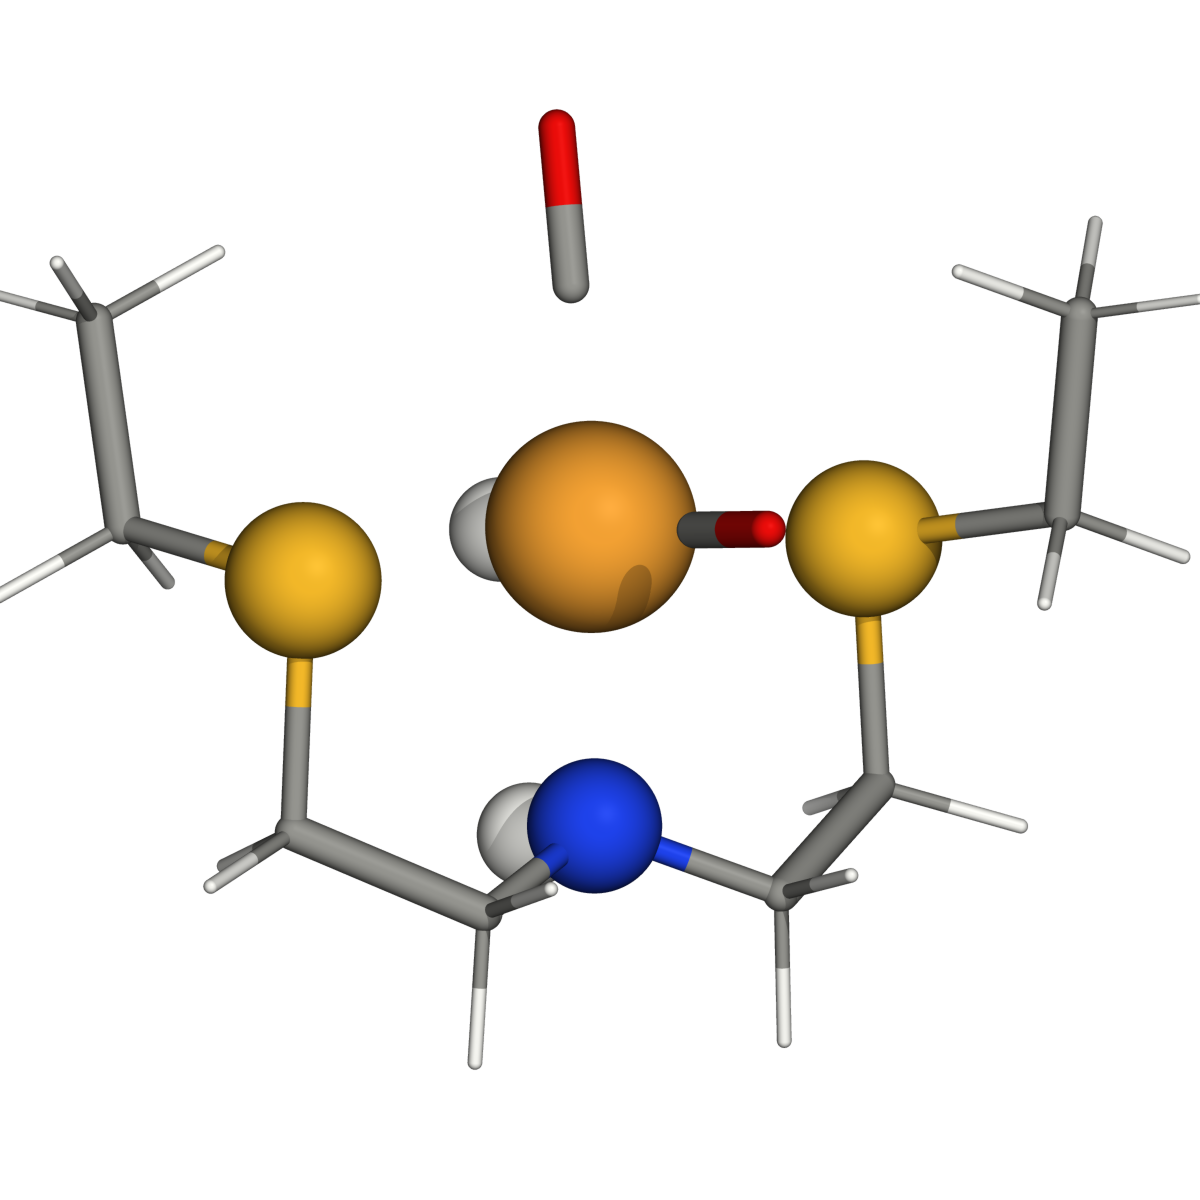
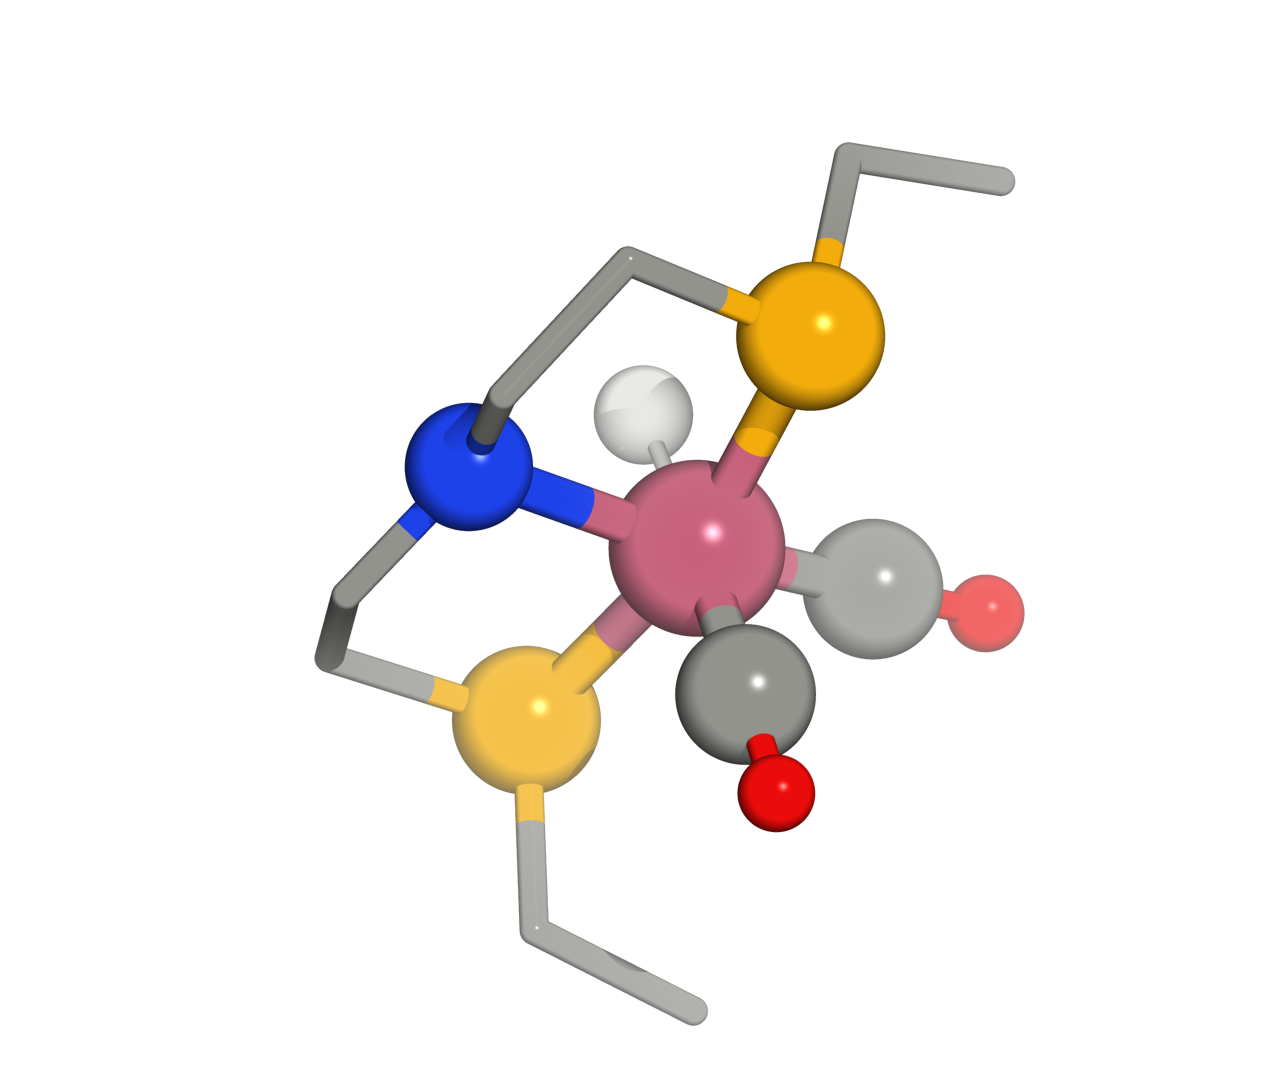
refactor: modified the original black-gold to soft-ceramic style

Changed region(s): [[0.0, 0.0924, 1.0, 0.9543], [0.0, 0.4618, 0.0617, 0.4925]]

diff --git a/chemsmart/jobs/mol/templates/scientific_styles.py b/chemsmart/jobs/mol/templates/scientific_styles.py
@@ -3,7 +3,7 @@ PyMOL visualization styles for publication, cover, and presentation figures.
 
 CHEMSMART applies this template for ``visualize -s`` choices including
 ``glossy``, ``comic``, ``soft-cartoon``, ``editorial-minimal``,
-``black-gold-cover``, and other scientific styles.
+``soft-ceramic``, and other scientific styles.
 In PyMOL directly::
 
     run scientific_styles.py
@@ -11,6 +11,7 @@ In PyMOL directly::
     render_comic_metallic_labeled_final all
     render_soft_cartoon all
     render_editorial_minimal all
+    render_soft_ceramic all
 """
 
 from pymol import cmd
@@ -868,25 +869,161 @@ def render_editorial_minimal(selection="all", highlight_bonds=""):
     print("Editorial minimal white style applied.")
 
 
-def render_black_gold_cover(selection="all", highlight_bonds=""):
-    """Black-gold journal-cover style for high-impact centerpiece figures."""
-    _begin_scientific_style(selection, highlight_bonds=highlight_bonds)
-    _show_coord_ball_and_stick(selection)
-    _apply_coord_sphere_scales(0.12, 0.17, 0.26, 0.13, 0.58, 0.40)
-    _color_by_element(carbon="sci_C_ivory", metal="metal_gold")
-    _apply_lighting(0.90, 0.72, 0.12, 0.88, 0.52, spec_power=320, shininess=95)
-    _apply_view(
-        orthoscopic=0,
-        field_of_view=38,
-        depth_cue=1,
-        fog_start=0.22,
-        ray_trace_gain=0.18,
+def _define_soft_ceramic_colors():
+    """Register palette used by the soft-ceramic studio style."""
+    for name, rgb in {
+        "studio_background": [0.970, 0.965, 0.945],
+        "ligand_ivory": [0.69, 0.67, 0.60],
+        "carbonyl_cream": [0.76, 0.74, 0.67],
+        "metal_bronze": [0.78, 0.44, 0.14],
+        "sulfur_soft_gold": [0.88, 0.61, 0.08],
+        "nitrogen_cobalt": [0.06, 0.17, 0.72],
+        "oxygen_deep_red": [0.84, 0.04, 0.025],
+        "hydrogen_warm": [0.94, 0.94, 0.91],
+    }.items():
+        try:
+            cmd.set_color(name, rgb)
+        except Exception:
+            pass
+
+
+def render_soft_ceramic(selection="all", highlight_bonds=""):
+    """Soft ceramic / studio ball-and-stick style for coordination complexes.
+
+    Metal centers are selected dynamically from common transition and main-group
+    coordination metals rather than a hardcoded Mn-only selection.
+    Optional ``-c`` bond pairs are applied via ``highlight_bonds`` without
+    changing the shared CHEMSMART coordinate-highlight plumbing.
+    """
+    highlight_bonds = _normalize_none(highlight_bonds)
+    sel = f"({selection})"
+
+    for name in (
+        "soft_ceramic_metal",
+        "soft_ceramic_donor_s",
+        "soft_ceramic_donor_n",
+        "soft_ceramic_co_c",
+        "soft_ceramic_co_o",
+        "soft_ceramic_hydride",
+        "soft_ceramic_nh_h",
+        "soft_ceramic_important_h",
+        "soft_ceramic_coordination_core",
+    ):
+        cmd.delete(name)
+
+    _define_soft_ceramic_colors()
+    cmd.hide("everything", sel)
+    _safe_set("valence", 0)
+    _safe_set("stick_ball", 0)
+
+    cmd.select("soft_ceramic_metal", f"{sel} and ({_METAL_ELEMENTS})")
+    cmd.select(
+        "soft_ceramic_donor_s",
+        f"{sel} and (elem S) within 2.8 of soft_ceramic_metal",
     )
-    _finish_scientific_style(
-        selection,
-        highlight_bonds=highlight_bonds,
-        message="Black-gold cover style applied.",
+    cmd.select(
+        "soft_ceramic_donor_n",
+        f"{sel} and (elem N) within 2.8 of soft_ceramic_metal",
     )
+    cmd.select(
+        "soft_ceramic_co_c",
+        f"{sel} and (elem C) within 2.10 of soft_ceramic_metal",
+    )
+    cmd.select(
+        "soft_ceramic_co_o",
+        f"{sel} and (elem O) within 1.35 of soft_ceramic_co_c",
+    )
+    cmd.select(
+        "soft_ceramic_hydride",
+        f"{sel} and (elem H) within 1.85 of soft_ceramic_metal",
+    )
+    cmd.select(
+        "soft_ceramic_nh_h",
+        f"{sel} and (elem H) within 1.25 of soft_ceramic_donor_n",
+    )
+    cmd.select(
+        "soft_ceramic_important_h",
+        "soft_ceramic_hydride or soft_ceramic_nh_h",
+    )
+    cmd.select(
+        "soft_ceramic_coordination_core",
+        "soft_ceramic_metal or soft_ceramic_donor_s or soft_ceramic_donor_n "
+        "or soft_ceramic_co_c or soft_ceramic_co_o or soft_ceramic_hydride",
+    )
+
+    cmd.bg_color("studio_background")
+    cmd.color(
+        "ligand_ivory",
+        f"{sel} and (elem C+H) and not soft_ceramic_co_c "
+        "and not soft_ceramic_important_h",
+    )
+    cmd.color("carbonyl_cream", "soft_ceramic_co_c")
+    cmd.color("metal_bronze", "soft_ceramic_metal")
+    cmd.color("sulfur_soft_gold", "soft_ceramic_donor_s")
+    cmd.color("nitrogen_cobalt", "soft_ceramic_donor_n")
+    cmd.color("oxygen_deep_red", "soft_ceramic_co_o")
+    cmd.color("hydrogen_warm", "soft_ceramic_important_h")
+
+    cmd.show("sticks", sel)
+    cmd.hide("sticks", f"{sel} and elem H and not soft_ceramic_important_h")
+    cmd.hide("spheres", f"{sel} and elem H and not soft_ceramic_hydride")
+    cmd.show("spheres", "soft_ceramic_coordination_core")
+
+    _safe_set("sphere_scale", 0.56, "soft_ceramic_metal")
+    _safe_set("sphere_scale", 0.40, "soft_ceramic_donor_s")
+    _safe_set("sphere_scale", 0.37, "soft_ceramic_donor_n")
+    _safe_set("sphere_scale", 0.28, "soft_ceramic_co_c")
+    _safe_set("sphere_scale", 0.18, "soft_ceramic_co_o")
+    _safe_set("sphere_scale", 0.25, "soft_ceramic_hydride")
+
+    _safe_set("stick_radius", 0.115, sel)
+    _safe_set(
+        "stick_radius",
+        0.155,
+        "soft_ceramic_metal or soft_ceramic_donor_s or soft_ceramic_donor_n",
+    )
+    _safe_set(
+        "stick_radius",
+        0.130,
+        "soft_ceramic_co_c or soft_ceramic_co_o or soft_ceramic_hydride",
+    )
+
+    _safe_set("stick_quality", 40)
+    _safe_set("sphere_quality", 4)
+    _safe_set("use_shaders", 1)
+    _safe_set("two_sided_lighting", 1)
+    _safe_set("light_count", 8)
+
+    _safe_set("ambient", 0.30)
+    _safe_set("direct", 0.70)
+    _safe_set("reflect", 0.25)
+    _safe_set("specular", 0.55)
+    _safe_set("spec_reflect", 0.32)
+    _safe_set("spec_power", 115)
+    _safe_set("shininess", 58)
+
+    _safe_set("ray_shadow", 1)
+    _safe_set("ray_trace_mode", 0)
+    _safe_set("ray_trace_gain", 0.06)
+    _safe_set("antialias", 2)
+    _safe_set("ray_trace_antialias", 2)
+    _safe_set("ambient_occlusion_mode", 1)
+    _safe_set("ambient_occlusion_scale", 12)
+    _safe_set("ambient_occlusion_smooth", 10)
+    _safe_set("ray_shadow_decay_factor", 0.25)
+    _safe_set("ray_shadow_decay_range", 2.0)
+    _safe_set("ray_opaque_background", 1)
+
+    if highlight_bonds:
+        _apply_coordination_highlight_bonds(
+            highlight_bonds,
+            sel,
+            "soft_ceramic_metal",
+        )
+
+    cmd.label("all", '""')
+    _finish_style(selection)
+    print("Soft ceramic studio style applied.")
 
 
 def render_neon_coordination_core(selection="all", highlight_bonds=""):
@@ -1081,7 +1218,7 @@ cmd.extend("comic_render", comic_render)
 cmd.extend("render_soft_cartoon", render_soft_cartoon)
 cmd.extend("soft_cartoon_render", soft_cartoon_render)
 cmd.extend("render_editorial_minimal", render_editorial_minimal)
-cmd.extend("render_black_gold_cover", render_black_gold_cover)
+cmd.extend("render_soft_ceramic", render_soft_ceramic)
 cmd.extend("render_neon_coordination_core", render_neon_coordination_core)
 cmd.extend("render_matte_clay", render_matte_clay)
 cmd.extend("render_xray_wire", render_xray_wire)

diff --git a/tests/test_PyMOLJobs.py b/tests/test_PyMOLJobs.py
@@ -22,6 +22,7 @@ from chemsmart.jobs.mol.runner import (
 from chemsmart.jobs.mol.spin import PyMOLSpinJob
 from chemsmart.jobs.mol.templates.scientific_styles import (
     render_editorial_minimal,
+    render_soft_ceramic,
 )
 from chemsmart.jobs.mol.visualize import (
     PyMOLScientificStyleVisualizationJob,
@@ -969,6 +970,7 @@ class TestPyMOLStyleCommands:
             ("soft_cartoon", "render_soft_cartoon"),
             ("neon_coordination_core", "render_neon_coordination_core"),
             ("editorial_minimal", "render_editorial_minimal"),
+            ("soft_ceramic", "render_soft_ceramic"),
         ],
     )
     def test_format_pymol_style_command_for_derived_styles_on_1_mer(
@@ -1005,6 +1007,10 @@ class TestPyMOLStyleCommands:
             (
                 "editorial_minimal",
                 "render_editorial_minimal 1-mer, 1-2+1-5+1-36+1-3+1-15+1-8",
+            ),
+            (
+                "soft_ceramic",
+                "render_soft_ceramic 1-mer, 1-2+1-5+1-36+1-3+1-15+1-8",
             ),
         ],
     )
@@ -1050,6 +1056,41 @@ class TestPyMOLStyleCommands:
         assert 'cmd.color("mn_rose", "editorial_metal")' in source
         assert 'cmd.color("sulfur_gold", "editorial_s_donors")' in source
         assert '_safe_set("ambient_occlusion_mode", 1)' in source
+
+    def test_render_soft_ceramic_defines_expected_visual_parameters(self):
+        source = inspect.getsource(render_soft_ceramic)
+
+        assert (
+            'cmd.select("soft_ceramic_metal", f"{sel} and ({_METAL_ELEMENTS})")'
+            in source
+        )
+        assert "elem Mn" not in source
+        assert "within 2.8 of soft_ceramic_metal" in source
+        assert "(elem C) within 2.10 of soft_ceramic_metal" in source
+        assert "(elem O) within 1.35 of soft_ceramic_co_c" in source
+        assert "(elem H) within 1.85 of soft_ceramic_metal" in source
+        assert (
+            '_safe_set("sphere_scale", 0.56, "soft_ceramic_metal")' in source
+        )
+        assert (
+            '_safe_set("sphere_scale", 0.40, "soft_ceramic_donor_s")' in source
+        )
+        assert (
+            '_safe_set("sphere_scale", 0.37, "soft_ceramic_donor_n")' in source
+        )
+        assert '_safe_set("sphere_scale", 0.28, "soft_ceramic_co_c")' in source
+        assert '_safe_set("sphere_scale", 0.18, "soft_ceramic_co_o")' in source
+        assert (
+            '_safe_set("sphere_scale", 0.25, "soft_ceramic_hydride")' in source
+        )
+        assert '_safe_set("stick_radius", 0.115, sel)' in source
+        assert 'cmd.color("metal_bronze", "soft_ceramic_metal")' in source
+        assert (
+            'cmd.color("sulfur_soft_gold", "soft_ceramic_donor_s")' in source
+        )
+        assert 'cmd.bg_color("studio_background")' in source
+        assert '_safe_set("ray_opaque_background", 1)' in source
+        assert "_apply_coordination_highlight_bonds" in source
 
     def test_hybrid_is_not_a_derived_style(self):
         with pytest.raises(ValueError, match="not available"):
@@ -1215,5 +1256,32 @@ class TestPyMOLScientificStyleVisualizationJobs:
                 job, job.label
             )
             == "render_editorial_minimal "
+            f"{job.label}, 1-2+1-5+1-36+1-3+1-15+1-8"
+        )
+
+    def test_soft_ceramic_style_job_on_1_mer_xyz(
+        self,
+        tmpdir,
+        visualized_1_mer_xyz_file,
+        pymol_scientific_style_visualization_jobrunner,
+    ):
+        job = PyMOLScientificStyleVisualizationJob.from_filename(
+            visualized_1_mer_xyz_file,
+            jobrunner=pymol_scientific_style_visualization_jobrunner,
+            style="soft-ceramic",
+            coordinates=self.coordination_bonds_1_mer,
+        )
+        job.set_folder(tmpdir)
+        job.run()
+
+        assert job.is_complete()
+        assert os.path.exists(os.path.join(tmpdir, "scientific_styles.py"))
+        assert os.path.exists(os.path.join(tmpdir, f"{job.label}.xyz"))
+        assert os.path.exists(os.path.join(tmpdir, f"{job.label}.pse"))
+        assert (
+            PyMOLScientificStyleVisualizationJobRunner._format_style_command(
+                job, job.label
+            )
+            == "render_soft_ceramic "
             f"{job.label}, 1-2+1-5+1-36+1-3+1-15+1-8"
         )

diff --git a/chemsmart/jobs/mol/runner.py b/chemsmart/jobs/mol/runner.py
@@ -47,7 +47,7 @@ PYMOL_SCIENTIFIC_STYLE_COMMANDS = {
     "comic": "render_comic_metallic_labeled_final",
     "soft_cartoon": "render_soft_cartoon",
     "editorial_minimal": "render_editorial_minimal",
-    "black_gold_cover": "render_black_gold_cover",
+    "soft_ceramic": "render_soft_ceramic",
     "neon_coordination_core": "render_neon_coordination_core",
     "matte_clay": "render_matte_clay",
     "xray_wire": "render_xray_wire",

diff --git a/docs/source/pymol-visualization.rst b/docs/source/pymol-visualization.rst
@@ -371,7 +371,7 @@ Manual PyMOL usage
 **************************
 
 CHEMSMART applies ``scientific_styles.py`` for ``visualize -s`` choices including ``glossy``, ``comic``,
-``soft-cartoon``, ``editorial-minimal``, ``black-gold-cover``, and other scientific styles. These are routed through
+``soft-cartoon``, ``editorial-minimal``, ``soft-ceramic``, and other scientific styles. These are routed through
 :class:`~chemsmart.jobs.mol.visualize.PyMOLScientificStyleVisualizationJob`.
 
 .. list-table::
@@ -388,8 +388,8 @@ CHEMSMART applies ``scientific_styles.py`` for ``visualize -s`` choices includin
       -  Soft premium ball-and-stick rendering with light metallic shading
    -  -  ``editorial-minimal``
       -  Matte minimal ball-and-stick style for main-text mechanistic figures
-   -  -  ``black-gold-cover``
-      -  High-impact black background with gold metal highlights
+   -  -  ``soft-ceramic``
+      -  Soft ceramic / studio ball-and-stick style for coordination complexes
    -  -  ``neon-coordination-core``
       -  Neon coordination-core emphasis for reactive centers and TSs
    -  -  ``matte-clay``
@@ -409,7 +409,7 @@ Basic Usage
 .. code:: bash
 
    chemsmart run mol -f complex.xyz visualize -s editorial-minimal
-   chemsmart run mol -f complex.xyz visualize -s black-gold-cover
+   chemsmart run mol -f complex.xyz visualize -s soft-ceramic
    chemsmart run mol -f complex.xyz visualize -s labeled-coordination-core
 
 Examples
@@ -425,15 +425,15 @@ Editorial minimal
 
    ``chemsmart run mol -f complex.xyz visualize -s editorial-minimal``
 
-Black-gold cover
-----------------
+Soft ceramic
+------------
 
-.. figure:: _static/pymol_styles/style_black_gold_cover.png
-   :alt: Black-gold cover visualization example
+.. figure:: _static/pymol_styles/style_soft_ceramic.png
+   :alt: Soft ceramic visualization example
    :align: center
    :width: 70%
 
-   ``chemsmart run mol -f complex.xyz visualize -s black-gold-cover``
+   ``chemsmart run mol -f complex.xyz visualize -s soft-ceramic``
 
 Neon coordination core
 ----------------------
@@ -502,7 +502,7 @@ Manual PyMOL usage
 
    run scientific_styles.py
    render_editorial_minimal all
-   render_black_gold_cover all
+   render_soft_ceramic all
    render_labeled_coordination_core all
    ray 1200, 1200
 